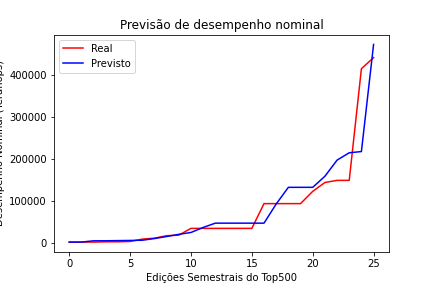
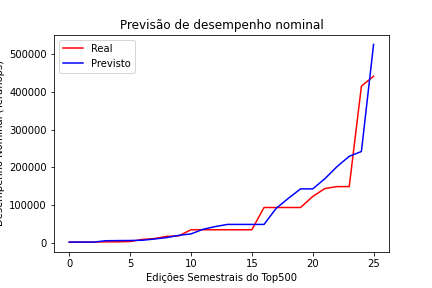
atualizacao

diff --git a/codigo/prediction.py b/codigo/prediction.py
@@ -21,12 +21,12 @@ from keras.callbacks import ReduceLROnPlateau, ModelCheckpoint, EarlyStopping
 
 # Parâmetros
 train_proportion = 0.70
-window = 2
+window = 3
 neuronios = 100
 camada_intermed = False
 otimizador ='adam'
 epocas = 1000
-steps_ahead = 1
+steps_ahead = 10
     
 def create_dataset(dataset_train, dataset_test):
     
@@ -139,24 +139,29 @@ def evaluate_model(model, X_train, X_test, y_test, training_set, test_set, sc):
     rmse = math.sqrt(mean_squared_error(y_test, predicted_values))
     print('RMSE: ', rmse)
 
-    mse = mean_squared_error(y_test, predicted_values)
-    print('MSE: ',mse)
+    #mse = mean_squared_error(y_test, predicted_values)
+    #print('MSE: ',mse)
 
     mape = np.mean(np.abs((y_test - predicted_values) / y_test)) * 100
     print('MAPE: ',mape, '%')    
 
 def forecast(model, dataset_test, window, steps_ahead, sc):
     last_data = dataset_test[-window:].values
+    last_data = np.reshape(last_data, (last_data.shape[0], 1))
+    last_data = sc.transform(last_data)
+    
     last_data = np.reshape(last_data, (1, last_data.shape[0], 1)) 
     
     for step in range(steps_ahead):
         predicted_value = model.predict(last_data)
-        predicted_value = sc.inverse_transform(predicted_value)
         new_first = last_data[0][-1].copy()
         last_data[0][-1] = predicted_value.copy()
         last_data[0][0] = new_first.copy()
-        
-    print(f"Valor previsto: {predicted_value[0][0]} - Passos: {steps_ahead}")
+        partial_result = sc.inverse_transform(predicted_value)
+        print(f"Valor previsto: {partial_result[0][0]} - Passo: {step+1}")
+ 
+    #predicted_value = sc.inverse_transform(predicted_value)    
+    #print(f"Valor previsto: {predicted_value[0][0]} - Passos: {steps_ahead}")
 
 
 def rmax(df_top500):
